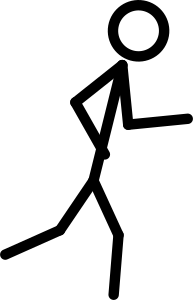
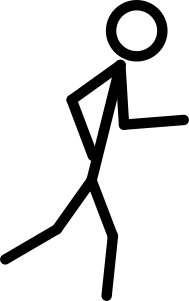
preparing for map creator

diff --git a/Figure.js b/Figure.js
@@ -16,27 +16,39 @@ var LEFT = 1;
 
 var keysDown = [];
 
-var stickWalkingRight0 = new Image();
-stickWalkingRight0.src = "./cycles_right/stick-walking-right-0.png";
-var stickWalkingRight1 = new Image();
-stickWalkingRight1.src = "./cycles_right/stick-walking-right-1.png";
-var stickWalkingRight2 = new Image();
-stickWalkingRight2.src = "./cycles_right/stick-walking-right-2.png";
-var stickWalkingRight3 = new Image();
-stickWalkingRight3.src = "./cycles_right/stick-walking-right-3.png";
-var stickWalkingRight4 = new Image();
-stickWalkingRight4.src = "./cycles_right/stick-walking-right-4.png";
+var stickRunningRight0 = new Image();
+var stickRunningRight1 = new Image();
+var stickRunningRight2 = new Image();
+var stickRunningRight3 = new Image();
+var stickRunningRight4 = new Image();
+var stickRunningRight5 = new Image();
+var stickRunningRight6 = new Image();
+var stickRunningRight7 = new Image();
+stickRunningRight0.src = "./cycles_right/stick_running_right_0.png";
+stickRunningRight1.src = "./cycles_right/stick_running_right_1.png";
+stickRunningRight2.src = "./cycles_right/stick_running_right_2.png";
+stickRunningRight3.src = "./cycles_right/stick_running_right_3.png";
+stickRunningRight4.src = "./cycles_right/stick_running_right_4.png";
+stickRunningRight6.src = "./cycles_right/stick_running_right_6.png";
+stickRunningRight5.src = "./cycles_right/stick_running_right_5.png";
+stickRunningRight7.src = "./cycles_right/stick_running_right_7.png";
 
-var stickWalkingLeft0 = new Image();
-stickWalkingLeft0.src = "./cycles_left/stick-walking-left-0.png";
-var stickWalkingLeft1 = new Image();
-stickWalkingLeft1.src = "./cycles_left/stick-walking-left-1.png";
-var stickWalkingLeft2 = new Image();
-stickWalkingLeft2.src = "./cycles_left/stick-walking-left-2.png";
-var stickWalkingLeft3 = new Image();
-stickWalkingLeft3.src = "./cycles_left/stick-walking-left-3.png";
-var stickWalkingLeft4 = new Image();
-stickWalkingLeft4.src = "./cycles_left/stick-walking-left-4.png";
+var stickRunningLeft0 = new Image();
+var stickRunningLeft1 = new Image();
+var stickRunningLeft2 = new Image();
+var stickRunningLeft3 = new Image();
+var stickRunningLeft4 = new Image();
+var stickRunningLeft5 = new Image();
+var stickRunningLeft6 = new Image();
+var stickRunningLeft7 = new Image();
+stickRunningLeft0.src = "./cycles_left/stick_running_left_0.png";
+stickRunningLeft1.src = "./cycles_left/stick_running_left_1.png";
+stickRunningLeft2.src = "./cycles_left/stick_running_left_2.png";
+stickRunningLeft3.src = "./cycles_left/stick_running_left_3.png";
+stickRunningLeft4.src = "./cycles_left/stick_running_left_4.png";
+stickRunningLeft5.src = "./cycles_left/stick_running_left_5.png";
+stickRunningLeft6.src = "./cycles_left/stick_running_left_6.png";
+stickRunningLeft7.src = "./cycles_left/stick_running_left_7.png";
 
 var stickCrouchRight = new Image();
 stickCrouchRight.src = "./stick-squat-right.png";
@@ -48,6 +60,11 @@ stickJumpRight.src = "./stick-jumping-right.png";
 var stickJumpLeft = new Image();
 stickJumpLeft.src = "./stick-jumping-left.png";
 
+var stickStandRight = new Image();
+stickStandRight.src = "./stick-stand-right.png";
+var stickStandLeft = new Image();
+stickStandLeft.src = "./stick-stand-left.png";
+
 var stickPushRight = new Image();
 stickPushRight.src = './stick-pushing-right.png';
 var stickPushLeft = new Image();
@@ -56,19 +73,57 @@ stickPushLeft.src = './stick-pushing-left.png';
 
 // WILL CHANGE IMAGES TO APPEAR LIKE RUNNING
 var walkCyclesRight = [
-    stickWalkingRight0,
-    stickWalkingRight1,
-    stickWalkingRight2,
-    stickWalkingRight3,
-    stickWalkingRight4
+    function () {
+        canvas.drawImage(stickRunningRight0, figure.x - 10, figure.y, 40, 60);
+    },
+    function () {
+        canvas.drawImage(stickRunningRight1, figure.x - 6, figure.y, 33, 60);
+    },
+    function () {
+        canvas.drawImage(stickRunningRight2, figure.x - 4, figure.y, 30, 60);
+    },
+    function () {
+        canvas.drawImage(stickRunningRight3, figure.x - 2, figure.y, 28, 60);
+    },
+    function () {
+        canvas.drawImage(stickRunningRight4, figure.x, figure.y, 27, 60);
+    },
+    function () {
+        canvas.drawImage(stickRunningRight5, figure.x - 2, figure.y, 32, 60);
+    },
+    function () {
+        canvas.drawImage(stickRunningRight6, figure.x - 4, figure.y, 38, 60);
+    },
+    function () {
+        canvas.drawImage(stickRunningRight7, figure.x - 6, figure.y, 40, 60);
+    },
 ];
 
 var walkCyclesLeft = [
-    stickWalkingLeft0,
-    stickWalkingLeft1,
-    stickWalkingLeft2,
-    stickWalkingLeft3,
-    stickWalkingLeft4
+    function () {
+        canvas.drawImage(stickRunningLeft0, figure.x - 10, figure.y, 40, 60);
+    },
+    function () {
+        canvas.drawImage(stickRunningLeft1, figure.x - 6, figure.y, 33, 60);
+    },
+    function () {
+        canvas.drawImage(stickRunningLeft2, figure.x - 4, figure.y, 30, 60);
+    },
+    function () {
+        canvas.drawImage(stickRunningLeft3, figure.x - 2, figure.y, 28, 60);
+    },
+    function () {
+        canvas.drawImage(stickRunningLeft4, figure.x, figure.y, 27, 60);
+    },
+    function () {
+        canvas.drawImage(stickRunningLeft5, figure.x - 2, figure.y, 32, 60);
+    },
+    function () {
+        canvas.drawImage(stickRunningLeft6, figure.x - 4, figure.y, 38, 60);
+    },
+    function () {
+        canvas.drawImage(stickRunningLeft7, figure.x - 6, figure.y, 40, 60);
+    },
 ];
 
 /////////////// FIGURE LOGIC ///////////////
@@ -130,14 +185,14 @@ var figure = function () {
         },
 
         start: function () {
-            figureLoop = setInterval(figure.update, 80);
+            figureLoop = setInterval(figure.update, 45);
             GameOver ? clearInterval(figureLoop) : null;
         },
 
         update: function () {
             // Cycle Walk
             if (figure.state === WALK) {
-                figure.walkStep = (figure.walkStep + 1) % 5;
+                figure.walkStep = (figure.walkStep + 1) % 8;
             }
             if (figure.y < 500 && figure.dy > 0 && figure.state !== POWER_STOMP) {
                 figure.state = STAND;
@@ -146,9 +201,9 @@ var figure = function () {
 
         walkCycle: function () {
             if (figure.oriented === RIGHT) {
-                canvas.drawImage(walkCyclesRight[figure.walkStep], figure.x, figure.y, 25, 60);
+                walkCyclesRight[figure.walkStep]();
             } else if (figure.oriented === LEFT) {
-                canvas.drawImage(walkCyclesLeft[figure.walkStep], figure.x, figure.y, 25, 60);
+                walkCyclesLeft[figure.walkStep]();
             }
         },
 
@@ -156,8 +211,8 @@ var figure = function () {
             switch (figure.state) {
                 case STAND:
                     figure.oriented === RIGHT
-                        ? canvas.drawImage(stickWalkingRight0, figure.x, figure.y, 25, 60)
-                        : canvas.drawImage(stickWalkingLeft0, figure.x, figure.y, 25, 60);
+                        ? canvas.drawImage(stickStandRight, figure.x, figure.y, 16, 60)
+                        : canvas.drawImage(stickStandLeft, figure.x, figure.y, 16, 60);
                     break;
                 case WALK:
                     figure.walkCycle();

diff --git a/FinalProject.js b/FinalProject.js
@@ -3,9 +3,15 @@
 
 var SCREEN_WIDTH = window.innerWidth - 1;
 var SCREEN_HEIGHT = window.innerHeight - 1;
+var BLOCK_WIDTH = 750;
 var GRAVITY = 2;
 var GameOver = false;
 var Time = new Date();
+
+// dummy map
+var map = {
+    startBlock: null
+};
 
 // motion of objects around character
 var ddx = 0;
@@ -13,6 +19,14 @@ var dx = 0;
 
 var theCanvas;
 var canvas;
+
+// The figure's position in map. Needs an x y pair.
+var figureBlock = {};
+// The figure's position on block. 0 < x < 750
+var figurePosition;
+
+// View point of user/player
+var viewDirection;
 
 var figure = new figure();
 var floor = {
@@ -23,6 +37,37 @@ var floor = {
 }
 
 var shelves = [new createShelf(), new createShelf(), new createShelf(), new createShelf(), new createShelf(), new createShelf()];
+
+
+var drawBackGround = function () {
+    if (figureDirection === 'E' || figureDirection === 'W') {
+        if (viewDirection === "N") {
+            drawBuilding(map[figureBlock.x - 1].northBId, figurePosition - BLOCK_WIDTH);
+            drawBuilding(map[figureBlock.x].northBId, figurePosition);
+            drawBuilding(map[figureBlock.x + 1].northBId, figurePosition + BLOCK_WIDTH);
+        }
+        else {
+            drawBuilding(map[figureBlock.x + 1].southBId, figurePosition - BLOCK_WIDTH);
+            drawBuilding(map[figureBlock.x].southBId, figurePosition);
+            drawBuilding(map[figureBlock.x - 1].southBId, figurePosition + BLOCK_WIDTH);
+        }
+    } else {
+        if (viewDirection === "E") {
+            drawBuilding(map[figureBlock.y - 1].eastBId, figurePosition - BLOCK_WIDTH);
+            drawBuilding(map[figureBlock.y].eastBId, figurePosition);
+            drawBuilding(map[figureBlock.y + 1].eastBId, figurePosition + BLOCK_WIDTH);
+        }
+        else {
+            drawBuilding(map[figureBlock.y + 1].westBId, figurePosition - BLOCK_WIDTH);
+            drawBuilding(map[figureBlock.y].westBId, figurePosition);
+            drawBuilding(map[figureBlock.y - 1].westBId, figurePosition + BLOCK_WIDTH);
+        }
+    }
+};
+
+var drawBuilding = function (bId, x) {
+    canvas.drawImg(bId, x, 200, 600, 800);
+};
 
 var updateAndDrawShelves = function () {
     shelves.forEach((s) => {
@@ -47,11 +92,51 @@ var initializeKeys = function () {
     keysDown[K_DOWN] = false;
 };
 
+// FIGURE IS MOVING RIGHT
+var adjustFigurePositionLeft = function () {
+    if (figurePosition += -7 < 0) {
+        figurePosition = 750;
+        if (viewDirection === 'N') {
+            figureBlock.x--;
+        }
+        else if (viewDirection === 'E') {
+            figureBlock.y--;
+        }
+        else if (viewDirection === 'S') {
+            figureBlock.x++;
+        }
+        else if (viewDirection === 'W') {
+            figureBlock.y++;
+        }
+    }
+};
+
+// FIGURE IS MOVING LEFT
+var adjustFigurePositionRight = function () {
+    if (figurePosition += 7 > 750) {
+        figurePosition = 0;
+        if (viewDirection === 'N') {
+            figureBlock.x++;
+        }
+        else if (viewDirection === 'E') {
+            figureBlock.y++;
+        }
+        else if (viewDirection === 'S') {
+            figureBlock.x--;
+        }
+        else if (viewDirection === 'W') {
+            figureBlock.y--;
+        }
+    }
+};
+
 var checkKeys = function () {
     if (keysDown[K_LEFT]) {
         dx = 7;
+        adjustFigurePositionLeft();
     } else if (keysDown[K_RIGHT]) {
-        dx = -7
+        dx = -7;
+        adjustFigurePositionRight();
     } else {
         dx = 0;
         ddx = 0;
@@ -60,7 +145,7 @@ var checkKeys = function () {
 
 /////// MAIN LOOP /////////
 var startGame = function () {
-    var gameLoop = setInterval(update, 50);
+    var gameLoop = setInterval(update, 25);
     if (GameOver) {
         clearInterval(gameLoop);
     }
@@ -79,15 +164,22 @@ var init = function () {
     document.onkeydown = updateKeysDown;
     document.onkeyup = updateKeysUp;
 
+    // Set Size
     theCanvas = document.getElementById('background');
     theCanvas.width = SCREEN_WIDTH;
     theCanvas.height = SCREEN_HEIGHT;
 
+    // Draw Figure
     canvas = theCanvas.getContext('2d');
     canvas = figure.drawFigure(canvas);
 
+    // Draw Floor
     canvas.fillStyle = '#020233';
     canvas.fillRect(floor.x, floor.y, floor.width, floor.height);
+
+    // Set Figure Position
+    figureBlock = map.startBlock;
+    figurePosition = 500;
 
     figure.start();
     startGame();

diff --git a/FinalProject.css b/FinalProject.css
@@ -10,5 +10,5 @@ canvas {
 }
 
 body {
-    background-color: gray;
+    background-color: #08bdfa;
 }
